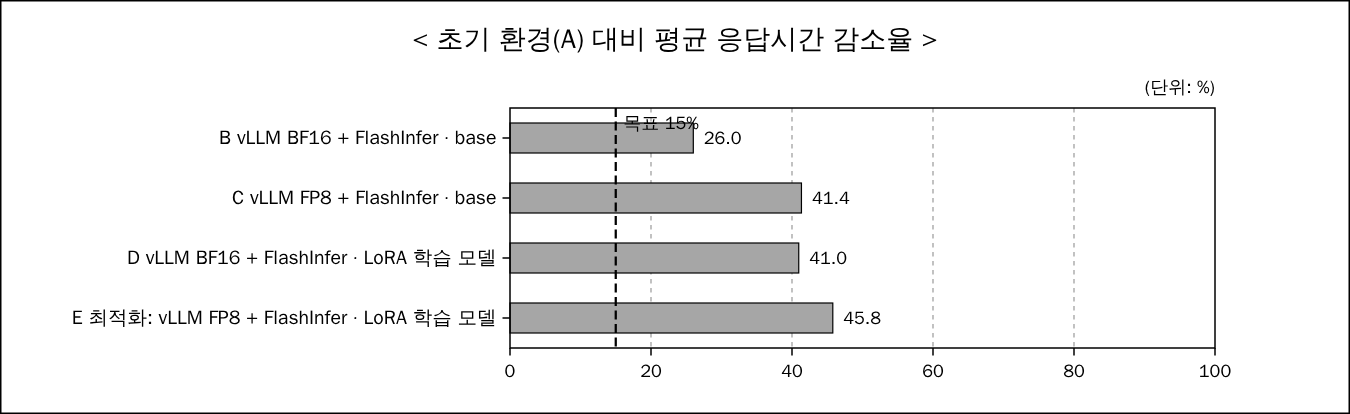
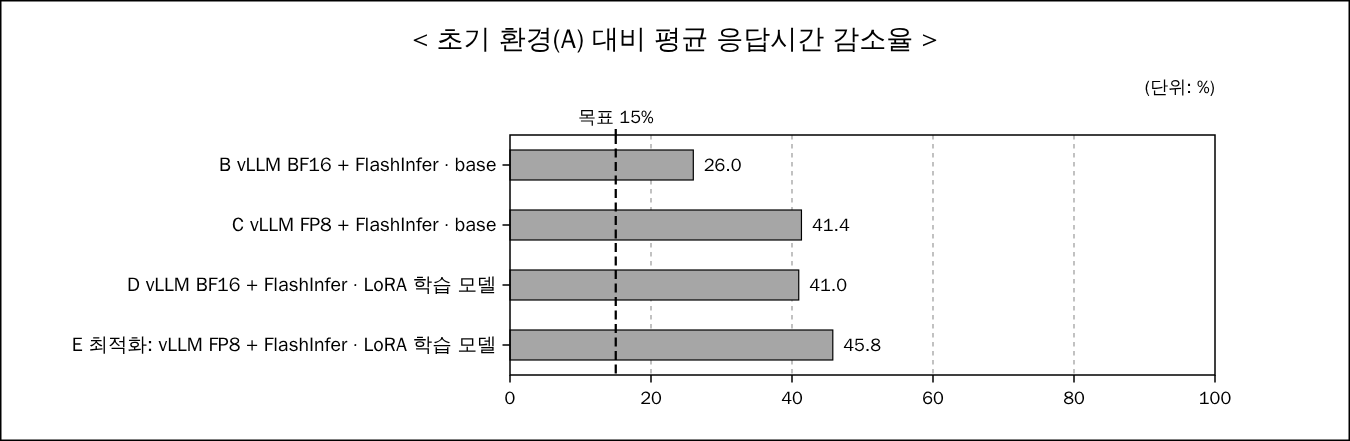
final_report: move target-line label above plot frame so it does not overlap bars
Claude-Session: https://claude.ai/code/session_01ELCeX4nHRTGFzuSDdQr1cs

diff --git a/final_report/tools/aggregate.py b/final_report/tools/aggregate.py
@@ -266,7 +266,7 @@ def hbar_svg(path, title, subtitle, items, unit, xmax=None, ref=None, ref_label=
     """items: [(label, value)] 또는 stacked=[(label, [v1, v2])]."""
     rows = stacked if stacked else items
     W, left, right, rh = 900, 340, 90, 40
-    top = 92 if legend else 72
+    top = (92 if legend else 72) + (18 if ref is not None else 0)
     ph = rh * len(rows)
     H = top + ph + 44
     vmax = xmax or max((sum(v) if stacked else v) for _, v in rows) * 1.12
@@ -279,7 +279,7 @@ def hbar_svg(path, title, subtitle, items, unit, xmax=None, ref=None, ref_label=
          f'<rect width="{W}" height="{H}" fill="{SURF}"/>',
          f'<rect x="0.5" y="0.5" width="{W - 1}" height="{H - 1}" fill="none" stroke="{INK}" stroke-width="1"/>',
          f'<text x="{W / 2}" y="32" font-size="18" font-weight="700" fill="{INK}" text-anchor="middle">&lt; {esc(title)} &gt;</text>',
-         f'<text x="{pr}" y="{top - 10}" font-size="12" fill="{INK}" text-anchor="end">(단위: {esc(unit)})</text>']
+         f'<text x="{pr}" y="{top - (28 if ref is not None else 10)}" font-size="12" fill="{INK}" text-anchor="end">(단위: {esc(unit)})</text>']
     for i in range(n + 1):
         v = step * i
         x = sx(v)
@@ -305,7 +305,8 @@ def hbar_svg(path, title, subtitle, items, unit, xmax=None, ref=None, ref_label=
     if ref is not None:
         x = sx(ref)
         o.append(f'<line x1="{x:.1f}" y1="{top}" x2="{x:.1f}" y2="{top + ph}" stroke="{INK}" stroke-width="1.5" stroke-dasharray="6 3"/>')
-        o.append(f'<text x="{x + 5:.1f}" y="{top + 14}" font-size="12" fill="{INK}">{esc(ref_label)}</text>')
+        o.append(f'<line x1="{x:.1f}" y1="{top - 4}" x2="{x:.1f}" y2="{top}" stroke="{INK}" stroke-width="1.5"/>')
+        o.append(f'<text x="{x:.1f}" y="{top - 8}" font-size="12" fill="{INK}" text-anchor="middle">{esc(ref_label)}</text>')
     o.append(f'<rect x="{left}" y="{top}" width="{pr - left}" height="{ph}" fill="none" stroke="{INK}" stroke-width="1"/>')
     if legend:
         sizes = [24 + 13 * len(name) for name in legend]
